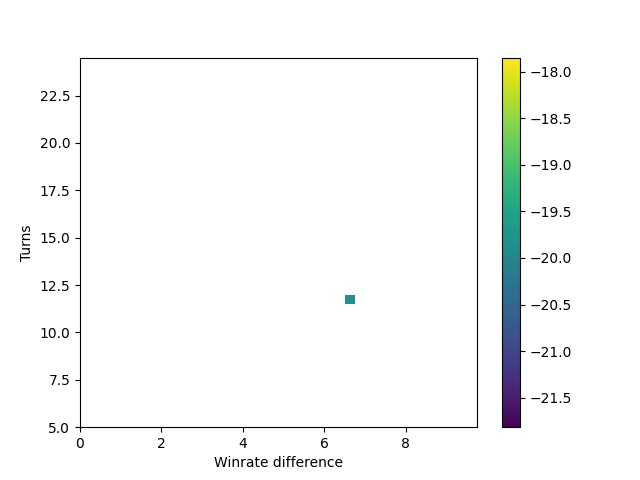
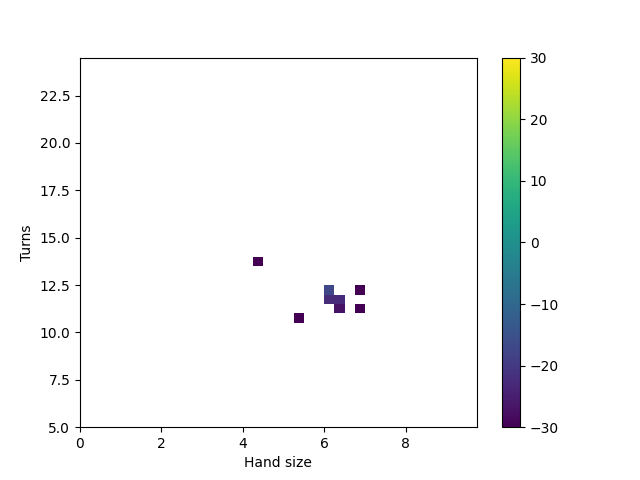
reorder and refractor

diff --git a/classic_sim/examples/agent_evolution.py b/classic_sim/examples/agent_evolution.py
@@ -115,7 +115,7 @@ class Archive():
     if attribute_to_display == 'winrate':
       im = ax.pcolormesh(x, y, Zm.T[:-1, :-1], vmin=0, vmax=1, shading='flat')
     else:
-      im = ax.pcolormesh(x, y, Zm.T[:-1, :-1], shading='flat')
+      im = ax.pcolormesh(x, y, Zm.T[:-1, :-1], vmin=-30, vmax=30, shading='flat')
     fig.colorbar(im, ax=ax)
     ax.set_xlabel(self.x_title)
     ax.set_ylabel(self.y_title)
@@ -246,9 +246,9 @@ def evaluate(agent, agent_class, enemy_class, rank):
   game_manager.build_full_game_manager(player_cardset, enemy_cardset,
                                       player_class_enum, player_decklist, GreedyActionSmart(agent),
                                       enemy_class_enum, enemy_decklist, GreedyActionSmart(enemy_agent))
-  winrate, turns, health_difference, cards_in_hand = game_manager.simulate(3, silent=True, parralel=1, rng=True, rank=rank)
+  winrate, health_difference, cards_in_hand, turns = game_manager.simulate(3, silent=True, parralel=1, rng=True, rank=rank)
 
-  return (winrate, turns, health_difference, cards_in_hand, enemy_class)
+  return (winrate, health_difference, cards_in_hand, turns, enemy_class)
 
 def peturb_agent(agent):
   for weight in agent:
@@ -260,17 +260,17 @@ def main():
   num_cores = comm.Get_size()
   rank = comm.Get_rank()
 
-  number_of_generations = 30
+  number_of_generations = 5
 
   if rank == 0:
-    initial_population_size = 64 #max 96
+    initial_population_size = 3 #max 96
     map_archive = Archive("Hand size", "Turns", x_range=(0, 10), y_range=(5, 25), num_buckets=40)
 
-  for i in range(number_of_generations):
+  for generation_number in range(number_of_generations):
     if rank == 0:
       start = time.time()
-      print(f"\nStarting generation {i}")
-      if i==0:
+      print(f"\nStarting generation {generation_number}")
+      if generation_number==0:
         population = [[gauss(0, 2.5) for i in range(21)] for j in range(initial_population_size)]
         print(f"Selecting {len(population)} of {initial_population_size}")
       else:
@@ -290,16 +290,15 @@ def main():
     all_results = comm.gather(my_results, root=0)
     
     if rank == 0:
-      flattened_results = [result for individual_core_reponses in all_results for result in individual_core_reponses]
-      recombined_results = [((flattened_results[i][j] + flattened_results[i+1][j] + flattened_results[i+2][j])/3 for j in range(4)) for i in range(0, len(flattened_results), 3)]
-
-      print(f"Total agent results received {len(flattened_results)}, recombined to {len(recombined_results)}")
-      for (winrate, turns, health_difference, cards_in_hand), agent in zip(recombined_results, population):
+      flat_res = [result for individual_core_reponses in all_results for result in individual_core_reponses]
+      recombined_results = [((flat_res[i][0] + flat_res[i+1][0] + flat_res[i+2][0])/3, (flat_res[i][1] + flat_res[i+1][1] + flat_res[i+2][1])/3, (flat_res[i][2] + flat_res[i+1][2] + flat_res[i+2][2])/3, (flat_res[i][3] + flat_res[i+1][3] + flat_res[i+2][3])/3) for i in range(0, len(flat_res), 3)]
+      print(f"Total agent results received {len(flat_res)}, recombined to {len(recombined_results)}")
+      for (winrate, health_difference, cards_in_hand, turns), agent in zip(recombined_results, population):
         map_archive.add_sample(cards_in_hand, turns, fitness=health_difference, sample=agent)
       map_archive.save()
-      map_archive.display(save_file=f'data/generation{i}.png')
+      map_archive.display(save_file=f'data/generation{generation_number}.png')
       end = time.time()
-      print(f"Finished generation {i} total {end-start} taken")
+      print(f"Finished generation {generation_number} total {end-start} taken")
       print(f'Most fit: {map_archive.get_most_fit()}')
       print(f'Average fitness {map_archive.get_average_fitness()}')
 

diff --git a/classic_sim/classic_sim.py b/classic_sim/classic_sim.py
@@ -13,8 +13,6 @@ def main():
   results.append(class_card_all_combinations())
   print(results)
 
-
-
   return True
 
 def class_card_all_combinations():
@@ -30,9 +28,9 @@ def class_card_all_combinations():
     game_manager.create_player(mini_meta_classes[player_index], Deck.generate_random, GreedyAction)
     game_manager.create_enemy(mini_meta_classes[enemy_index], Deck.generate_random, GreedyAction)
 
-    winrate = game_manager.simulate(num_games=10, parralel=-1, silent=False)
+    result = game_manager.simulate(num_games=10, parralel=-1, silent=False)
     matchup_string = f"{mini_meta_names[player_index]} vs {mini_meta_names[enemy_index]}"
-    results.append((matchup_string, winrate))
+    results.append((matchup_string, result))
   return results
 
 def class_cards_mage_vs_hunter():

diff --git a/classic_sim/game.py b/classic_sim/game.py
@@ -757,4 +757,4 @@ class Game():
 
     player_cards_in_hand = mean(player_cards_in_hand)
       
-    return (game_status, turn, self.player.health-self.enemy.health, player_cards_in_hand)
+    return (game_status, self.player.health-self.enemy.health, player_cards_in_hand, turn)
